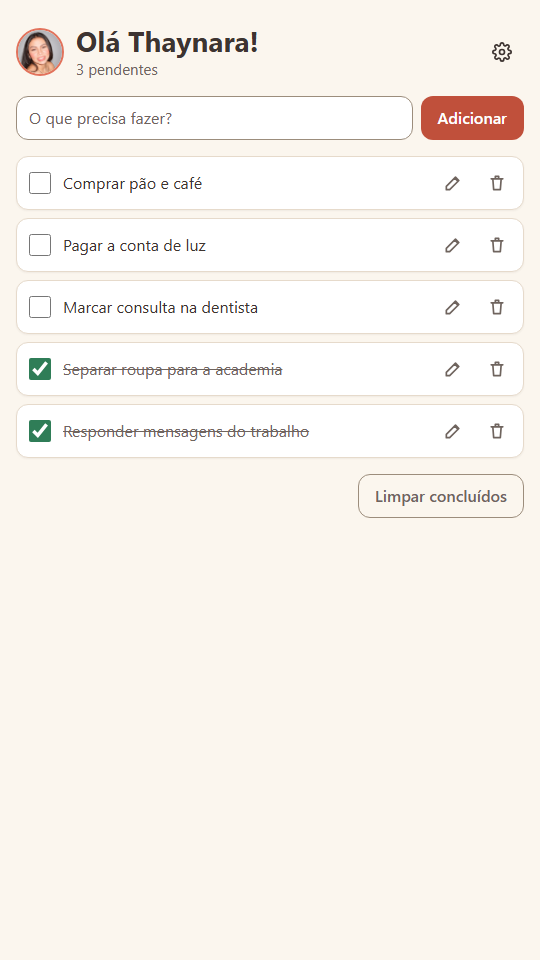
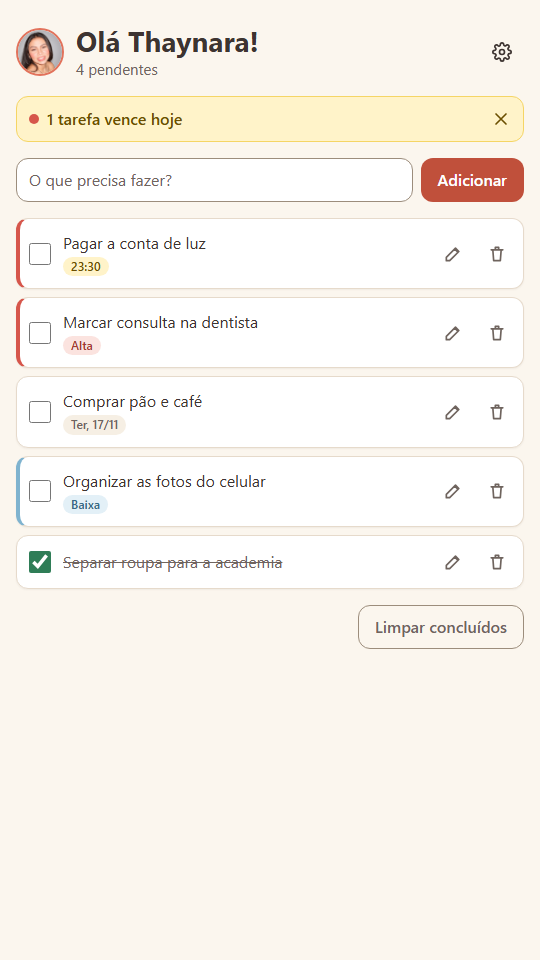
Duas fotos de perfil prontas no painel Personalizar
Além de enviar uma foto, dá para tocar numa das duas prontas
(avatars/avatar-1.png, preto e branco, e avatar-2.png, colorida; 192 px
cada). A escolha é guardada pelo caminho, aparece no topo e na aba do
navegador, e funciona offline (as fotos estão no cache do SW). Capturas
de tela regeradas mostrando urgência, prazo e o aviso "vence hoje".
CACHE_NAME vai para checklist-v10.

diff --git a/settings.js b/settings.js
@@ -11,6 +11,9 @@
   var PHOTO_THEME = '#3d3431'; // cor da barra do sistema com foto de fundo (escurecida)
   var MAX_BLUR = 20;
 
+  // Fotos de perfil prontas (PNG no repo, também no cache do SW).
+  var AVATAR_PRESETS = ['./avatars/avatar-1.png', './avatars/avatar-2.png'];
+
   var defaults = { bgType: 'default', bgColor: DEFAULT_BG, bgPhoto: null, bgBlur: 0, avatar: null };
 
   function isColor(value) {
@@ -32,7 +35,7 @@
       if (typeof data.bgBlur === 'number' && data.bgBlur >= 0 && data.bgBlur <= MAX_BLUR) {
         s.bgBlur = Math.round(data.bgBlur);
       }
-      if (isImageData(data.avatar)) s.avatar = data.avatar;
+      if (isImageData(data.avatar) || AVATAR_PRESETS.indexOf(data.avatar) >= 0) s.avatar = data.avatar;
     } catch (err) { /* dado corrompido: usa o padrão */ }
     return s;
   }
@@ -61,6 +64,7 @@
   var openBtn = document.getElementById('open-settings');
   var avatarFile = document.getElementById('avatar-file');
   var avatarRemove = document.getElementById('avatar-remove');
+  var avatarOptions = document.querySelectorAll('.avatar-option');
   var typeRadios = document.querySelectorAll('input[name="bg-type"]');
   var colorOptions = document.getElementById('bg-color-options');
   var photoOptions = document.getElementById('bg-photo-options');
@@ -108,7 +112,7 @@
       avatarImg.src = settings.avatar;
       avatarImg.hidden = false;
       if (favicon) {
-        favicon.setAttribute('type', 'image/jpeg');
+        favicon.setAttribute('type', isImageData(settings.avatar) ? 'image/jpeg' : 'image/png');
         favicon.setAttribute('href', settings.avatar);
       }
     } else {
@@ -135,6 +139,9 @@
     blurInput.disabled = !settings.bgPhoto;
     photoHint.hidden = Boolean(settings.bgPhoto);
     avatarRemove.disabled = !settings.avatar;
+    avatarOptions.forEach(function (opt) {
+      opt.setAttribute('aria-pressed', String(opt.dataset.avatar === settings.avatar));
+    });
   }
 
   function update(changes) {
@@ -210,6 +217,10 @@
     avatarFile.value = '';
     if (!file) return;
     processImage(file, 192, true).then(function (data) { update({ avatar: data }); }, imageError);
+  });
+
+  avatarOptions.forEach(function (opt) {
+    opt.addEventListener('click', function () { update({ avatar: opt.dataset.avatar }); });
   });
 
   avatarRemove.addEventListener('click', function () {

diff --git a/index.html b/index.html
@@ -84,7 +84,17 @@
 
       <fieldset>
         <legend>Foto do perfil</legend>
-        <p class="hint">Aparece no topo do app e na aba do navegador. O ícone do app instalado não muda: ele é fixo no site.</p>
+        <p class="hint">Escolha uma das fotos ou envie outra. Ela aparece no topo do app e na aba do navegador. O ícone do app instalado não muda: ele é fixo no site.</p>
+        <div class="panel-row">
+          <button type="button" class="avatar-option" data-avatar="./avatars/avatar-1.png" aria-pressed="false">
+            <img src="./avatars/avatar-1.png" alt="" width="56" height="56">
+            <span class="sr-only">Foto 1, preto e branco</span>
+          </button>
+          <button type="button" class="avatar-option" data-avatar="./avatars/avatar-2.png" aria-pressed="false">
+            <img src="./avatars/avatar-2.png" alt="" width="56" height="56">
+            <span class="sr-only">Foto 2, colorida</span>
+          </button>
+        </div>
         <div class="panel-row">
           <label class="btn btn-ghost file-btn">
             Escolher foto

diff --git a/sw.js b/sw.js
@@ -12,7 +12,7 @@
  */
 'use strict';
 
-var CACHE_NAME = 'checklist-v9';
+var CACHE_NAME = 'checklist-v10';
 
 var ASSETS = [
   './',
@@ -24,6 +24,8 @@ var ASSETS = [
   './icons/icon-192.png',
   './icons/icon-512.png',
   './icons/icon-maskable-512.png',
+  './avatars/avatar-1.png',
+  './avatars/avatar-2.png',
   './screenshots/wide.png',
   './screenshots/narrow.png'
 ];

diff --git a/claude.md b/claude.md
@@ -41,6 +41,9 @@ App de checklist (uma única lista) feito como PWA estático e publicado no GitH
 │   ├── icon-192.png
 │   ├── icon-512.png
 │   └── icon-maskable-512.png
+├── avatars/
+│   ├── avatar-1.png       foto de perfil pronta (preto e branco, de logo.jpeg)
+│   └── avatar-2.png       foto de perfil pronta (colorida, de icons/icon-2.png)
 ├── screenshots/
 │   ├── wide.png           captura de PC (1280×800) para a janela de instalação
 │   └── narrow.png         captura de celular (540×960)
@@ -63,7 +66,7 @@ App de checklist (uma única lista) feito como PWA estático e publicado no GitH
    - Excluir um item é direto, sem confirmação. "Limpar concluídos" pede `confirm()` porque apaga vários.
    - Na edição, texto vazio mantém o texto anterior (não exclui).
 4. **Modelo do item**: `{ id: string, text: string, done: boolean, createdAt: number, doneAt: number | null, priority: "low" | "normal" | "high", dueDate: "AAAA-MM-DD" | null, dueTime: "HH:MM" | null }`. No storage, salvo como array JSON em `checklist.items.v1`. Datas e horas são do fuso do aparelho. `dueTime` só existe com `dueDate`. O `load()` valida cada item e descarta campos desconhecidos (`cleanItem` em `app.js`): itens antigos sem `priority`/`dueDate`/`dueTime`, ou com valores inválidos, ficam Normal e sem prazo. Ao acrescentar campos novos, atualize a validação e o mapeamento.
-5. **Modelo das preferências**: `{ bgType: "default" | "color" | "photo", bgColor: "#rrggbb", bgPhoto: dataURL | null, bgBlur: 0–20, avatar: dataURL | null }`, salvo como JSON em `checklist.settings.v1`. Valor inválido ou corrompido volta para o padrão.
+5. **Modelo das preferências**: `{ bgType: "default" | "color" | "photo", bgColor: "#rrggbb", bgPhoto: dataURL | null, bgBlur: 0–20, avatar: dataURL | "./avatars/avatar-1.png" | "./avatars/avatar-2.png" | null }`, salvo como JSON em `checklist.settings.v1`. Valor inválido ou corrompido volta para o padrão.
 6. **Idioma**: português (pt-BR).
 7. **Visual — paleta "Areia e coral"** (escolhida pelo usuário depois de achar o preto e branco "sem graça"): tema único e claro, sem variação claro/escuro do sistema. Tokens em `:root` no `styles.css`:
    - fundo `#fbf6ee` (off-white quente), superfícies `#ffffff`, superfície suave `#f6efe4`, texto `#3d3431`, texto secundário `#6f645e`, borda de card `#e6dacb`, borda de campo `#9c8d7c`;
@@ -89,7 +92,7 @@ Decidido com o usuário (as decisões marcadas com * foram tomadas sem perguntar
 
 Aberto pelo botão de engrenagem no topo. As mudanças valem na hora e são salvas em `checklist.settings.v1`.
 
-- **Foto do perfil:** a imagem enviada é recortada em quadrado (puxado para cima, onde costuma estar o rosto), reduzida para 192 px e salva em JPEG. Ela aparece como avatar redondo no topo e como ícone da aba do navegador. **O ícone do app instalado não muda** (ver "Limite do PWA").
+- **Foto do perfil:** duas fotos prontas para tocar e escolher (`avatars/avatar-1.png` e `avatar-2.png`, 192 px, guardadas pelo caminho e no cache do SW), ou envio de outra imagem. A imagem enviada é recortada em quadrado (puxado para cima, onde costuma estar o rosto), reduzida para 192 px e salva em JPEG. Ela aparece como avatar redondo no topo e como ícone da aba do navegador. **O ícone do app instalado não muda** (ver "Limite do PWA").
 - **Plano de fundo:**
   - *Padrão:* `#fbf6ee`.
   - *Cor sólida:* 6 cores prontas da paleta (areia, rosa, amarelo-manteiga, azul-céu, menta e chocolate) ou qualquer cor pelo seletor. Se a cor for escura (luminância ≤ 0,3), o `<html>` ganha a classe `bg-dark`: o texto sobre o fundo fica claro. O `meta theme-color` acompanha a cor.

diff --git a/README.md b/README.md
@@ -10,7 +10,7 @@ Checklist simples que funciona offline e pode ser instalado no celular ou no com
 - Os dados ficam salvos no próprio navegador (`localStorage`, chaves `checklist.items.v1` e `checklist.settings.v1`); não há conta nem servidor
 - Funciona sem internet depois do primeiro acesso
 - Visual claro em off-white, coral e amarelo-manteiga; check verde com fogos de artifício ao concluir
-- Painel **Personalizar** (engrenagem no topo): foto do perfil, plano de fundo (cor sólida ou foto com desfoque) e exportar/importar a lista para levar a outro aparelho
+- Painel **Personalizar** (engrenagem no topo): foto do perfil (duas prontas ou enviada), plano de fundo (cor sólida ou foto com desfoque) e exportar/importar a lista para levar a outro aparelho
 - Avisa quando há uma versão nova publicada
 
 Feito com HTML, CSS e JavaScript puros, sem build e sem dependências.
@@ -56,6 +56,7 @@ app.js                 itens, persistência e aviso de nova versão
 manifest.webmanifest   dados de instalação do PWA
 sw.js                  service worker (cache offline)
 icons/                 ícones PNG 192, 512 e 512 maskable
+avatars/               duas fotos de perfil prontas (192 px)
 screenshots/           capturas usadas na janela de instalação
 .nojekyll              impede o GitHub Pages de processar o site com Jekyll
 ```

diff --git a/task.md b/task.md
@@ -8,5 +8,4 @@ Contexto, regras e especificação estão no `claude.md`.
 
 ## T3 — Outras ideias (ainda não decididas)
 
-- [ ] **T3.2** Duas fotos de perfil prontas no painel Personalizar (a de `logo.jpeg` e a de `icons/icon-2.png`, em `avatars/` como PNG de 192 px), além do envio de foto.
 - [ ] **T3.3** Desenho do Bob Esponja: o usuário vai fornecer o arquivo; posição ainda não definida (a prévia usou um espaço no canto do cabeçalho).
